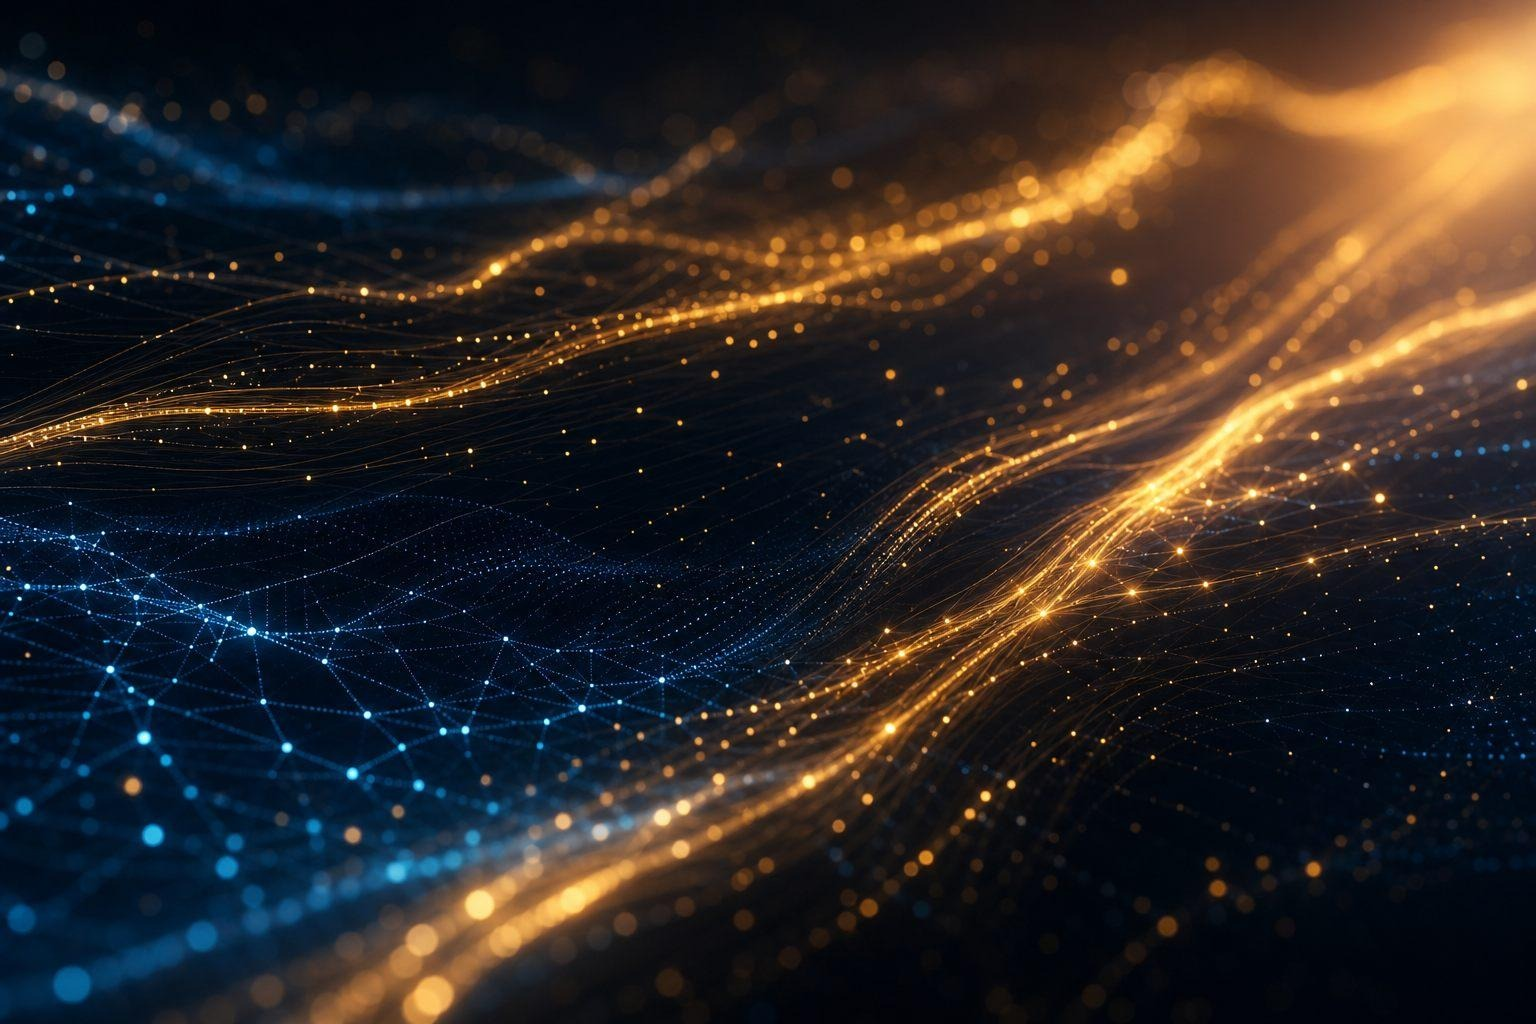
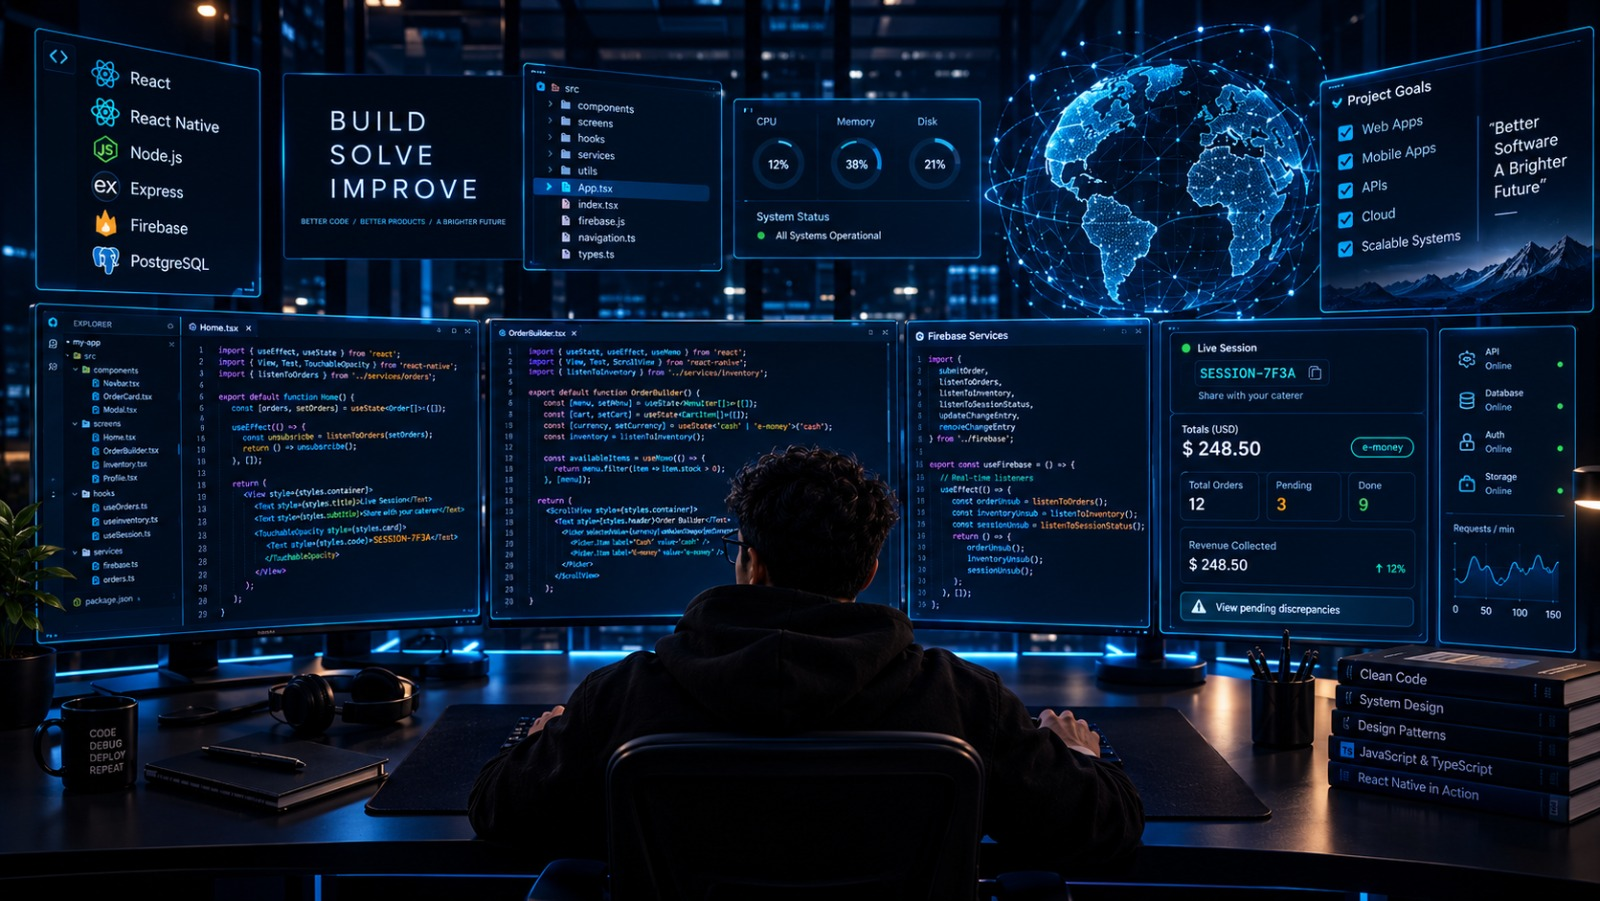
Compact hero: remove scroll cue, shrink empty space, tighten ribbon gap, refresh toppart image

diff --git a/index.html b/index.html
@@ -63,9 +63,9 @@
     }
 
     /* ---------------- HERO (full-bleed background photo) ---------------- */
-    .hero{position:relative;min-height:100vh;display:flex;align-items:center;overflow:hidden}
+    .hero{position:relative;display:flex;align-items:center;overflow:hidden}
     .hero-bg{position:absolute;inset:0;z-index:0;
-      background-image:url("images/toppart.png.jpeg");
+      background-image:url("images/toppart.png.jpeg?v=2");
       background-size:cover;background-position:center right;
       background-color:#0d1420;transform:scale(1.05);animation:kenburns 22s ease-in-out infinite alternate}
     @keyframes kenburns{from{transform:scale(1.05) translateX(0)}to{transform:scale(1.14) translateX(-18px)}}
@@ -73,8 +73,8 @@
       background:
         linear-gradient(90deg, rgba(8,12,18,0.96) 0%, rgba(8,12,18,0.82) 46%, rgba(8,12,18,0.32) 100%),
         linear-gradient(180deg, rgba(8,12,18,0.55), rgba(8,12,18,0.90));}
-    .hero .container{position:relative;z-index:2;width:100%;padding-top:92px;padding-bottom:72px}
-    .hero{min-height:92vh}
+    .hero .container{position:relative;z-index:2;width:100%;padding-top:84px;padding-bottom:48px}
+    .hero{min-height:auto}
     .hero-inner{max-width:720px}
     .hero-inner > *{opacity:0;transform:translateY(22px);animation:rise .7s ease forwards}
     .hero-inner > *:nth-child(1){animation-delay:.05s}
@@ -84,7 +84,7 @@
     .hero-inner > *:nth-child(5){animation-delay:.57s}
     @keyframes rise{to{opacity:1;transform:none}}
     .hero .eyebrow{display:inline-flex;align-items:center;gap:12px;font-size:.78rem;letter-spacing:4px;
-      text-transform:uppercase;color:var(--accent-2);font-weight:600;margin:0 0 20px}
+      text-transform:uppercase;color:var(--accent-2);font-weight:600;margin:0 0 16px}
     .hero .eyebrow::before{content:"";width:36px;height:2px;background:var(--accent);display:inline-block}
     .hero h1{font-family:var(--serif);font-weight:800;line-height:1;margin:0;
       font-size:clamp(2.6rem,6.6vw,5rem);color:#fff;letter-spacing:-1px}
@@ -248,7 +248,6 @@
         </div>
       </div>
     </div>
-    <a class="scroll-cue" href="#about" aria-label="Scroll down"><span class="mouse"></span><span>Scroll</span></a>
   </section>
 
   <!-- ABOUT -->

diff --git a/index_Version3.html b/index_Version3.html
@@ -63,9 +63,9 @@
     }
 
     /* ---------------- HERO (full-bleed background photo) ---------------- */
-    .hero{position:relative;min-height:100vh;display:flex;align-items:center;overflow:hidden}
+    .hero{position:relative;display:flex;align-items:center;overflow:hidden}
     .hero-bg{position:absolute;inset:0;z-index:0;
-      background-image:url("images/toppart.png.jpeg");
+      background-image:url("images/toppart.png.jpeg?v=2");
       background-size:cover;background-position:center right;
       background-color:#0d1420;transform:scale(1.05);animation:kenburns 22s ease-in-out infinite alternate}
     @keyframes kenburns{from{transform:scale(1.05) translateX(0)}to{transform:scale(1.14) translateX(-18px)}}
@@ -73,8 +73,8 @@
       background:
         linear-gradient(90deg, rgba(8,12,18,0.96) 0%, rgba(8,12,18,0.82) 46%, rgba(8,12,18,0.32) 100%),
         linear-gradient(180deg, rgba(8,12,18,0.55), rgba(8,12,18,0.90));}
-    .hero .container{position:relative;z-index:2;width:100%;padding-top:92px;padding-bottom:72px}
-    .hero{min-height:92vh}
+    .hero .container{position:relative;z-index:2;width:100%;padding-top:84px;padding-bottom:48px}
+    .hero{min-height:auto}
     .hero-inner{max-width:720px}
     .hero-inner > *{opacity:0;transform:translateY(22px);animation:rise .7s ease forwards}
     .hero-inner > *:nth-child(1){animation-delay:.05s}
@@ -84,7 +84,7 @@
     .hero-inner > *:nth-child(5){animation-delay:.57s}
     @keyframes rise{to{opacity:1;transform:none}}
     .hero .eyebrow{display:inline-flex;align-items:center;gap:12px;font-size:.78rem;letter-spacing:4px;
-      text-transform:uppercase;color:var(--accent-2);font-weight:600;margin:0 0 20px}
+      text-transform:uppercase;color:var(--accent-2);font-weight:600;margin:0 0 16px}
     .hero .eyebrow::before{content:"";width:36px;height:2px;background:var(--accent);display:inline-block}
     .hero h1{font-family:var(--serif);font-weight:800;line-height:1;margin:0;
       font-size:clamp(2.6rem,6.6vw,5rem);color:#fff;letter-spacing:-1px}
@@ -248,7 +248,6 @@
         </div>
       </div>
     </div>
-    <a class="scroll-cue" href="#about" aria-label="Scroll down"><span class="mouse"></span><span>Scroll</span></a>
   </section>
 
   <!-- ABOUT -->
